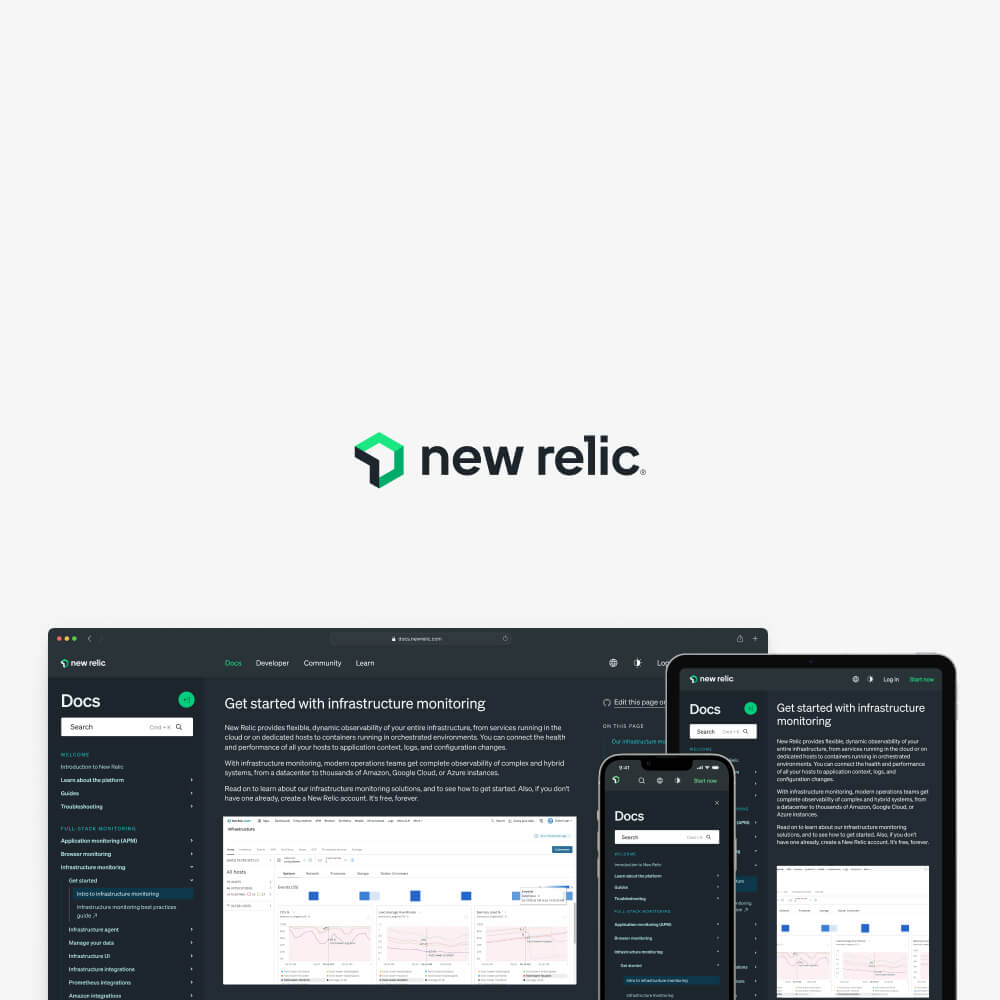
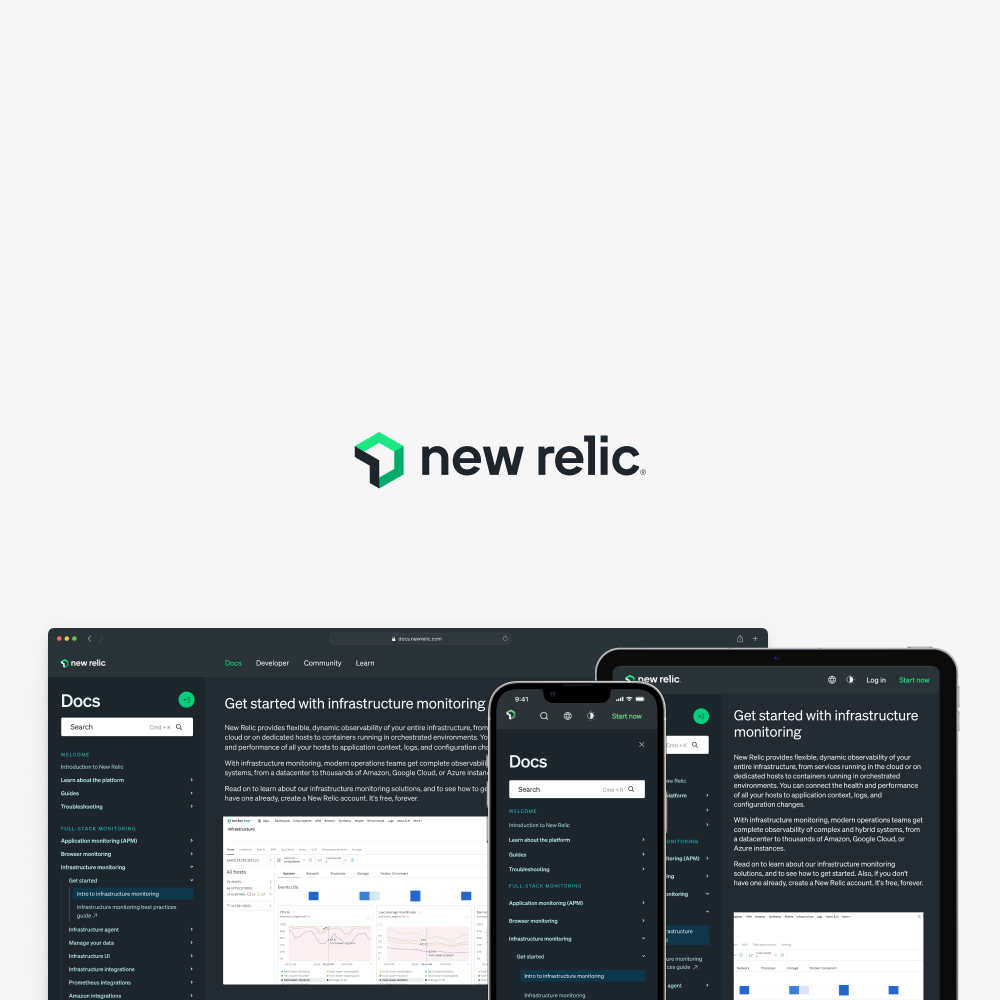
no-index everything, new work page, new thumbnails

Changed region(s): [[0.465, 0.62, 0.961, 1.0], [0.093, 0.992, 0.124, 1.0]]

diff --git a/work.html b/work.html
@@ -6,6 +6,7 @@
     ================================================== -->
     <meta charset="utf-8">
     <meta name="viewport" content="width=device-width, initial-scale=1">
+    <meta name="robots" content="noindex">
 
     <title>Andrew Chen. Senior Product Designer</title>
 
@@ -108,7 +109,161 @@
         </section> <!-- end s-intro -->
 
 
-        
+        <!-- # works
+        ================================================== -->
+        <section id="works" class="s-works">
+
+            <!--<div class="row">
+                <div class="column lg-12">
+                    <h2 class="text-pretitle">Work</h2>
+
+                    <p class="text-huge-title">
+                    Recent work.
+                    </p>
+                </div>
+            </div>-->
+
+            <div class="row folio-list block-lg-one-half block-stack-on-550" data-animate-block>
+
+                <!--<div class="column" data-animate-el>
+                    <div class="folio-item">
+                        <div class="folio-item__thumb">
+                            <a class="folio-item__thumb-link" href="anomaly.html" Title="Zest" data-size="1050x700">
+                                <img src="anomaly/anomaly-cover-1000.jpg">
+                            </a>
+                        </div>
+                        <div class="folio-item__info">
+                            <div class="folio-item__meta">
+                                <span class="cat">Anomaly &ndash; 2023</span>
+                                <!--<a href="https://www.behance.net/" title="Project Link" class="project-link">Project Link</a>
+                            </div>
+                            <h4 class="folio-item__title"><a href="anomaly.html">Building a better warranty claims experience with the power of LLMs</a></h4>
+                        </div>
+                        <div class="folio-item__caption">
+                            <p>1 minute reading</p>
+                        </div>
+                    </div>
+                </div> -->
+
+                <div class="column" data-animate-el>
+                    <div class="folio-item">
+                        <div class="folio-item__thumb">
+                            <a class="folio-item__thumb-link" href="zest.html" Title="Zest" data-size="1050x700">
+                                <img src="zest/zest-cover-new-800.jpg">
+                            </a>
+                        </div>
+                        <div class="folio-item__info">
+                            <div class="folio-item__meta">
+                                <span class="cat">Zest Dermatology &ndash; 2023</span>
+                                <!--<a href="https://www.behance.net/" title="Project Link" class="project-link">Project Link</a>-->
+                            </div>
+                            <h4 class="folio-item__title"><a href="zest.html">Designing the MVP for Roivant's virtual derm clinic</a></h4>
+                        </div>
+                        <div class="folio-item__caption">
+                            <p>1 minute reading</p>
+                        </div>
+                    </div>
+                </div> <!-- end column -->
+
+                <div class="column" data-animate-el>
+                    <div class="folio-item">
+                        <div class="folio-item__thumb">
+                            <a class="folio-item__thumb-link" href="newrelic.html" title="New Relic" data-size="1050x700">
+                                <img src="newrelic/newrelic-cover-new-1000.jpg">
+                            </a>
+                        </div>
+                        <div class="folio-item__info">
+                            <div class="folio-item__meta">
+                                <span class="cat">New Relic &ndash; 2022</span>
+                                <!--<a href="https://www.behance.net/" title="Project Link" class="project-link">Project Link</a>-->
+                            </div>
+                            <h4 class="folio-item__title"><a href="newrelic.html">Increasing feedback and fixing navigation flaws on New Relic docs</a></h4>
+                        </div>
+                        <div class="folio-item__caption">
+                            <p>1 minute reading</p>
+                        </div>
+                    </div>
+                </div> <!-- end column -->
+                <!--<div class="column" data-animate-el>
+                    <div class="folio-item">
+                        <div class="folio-item__thumb">
+                            <a class="folio-item__thumb-link" href="newrelic-billing.html" title="New Relic" data-size="1050x700">
+                                <img src="newrelic-billing/newrelic-billing-cover-1000.jpg">
+                            </a>
+                        </div>
+                        <div class="folio-item__info">
+                            <div class="folio-item__meta">
+                                <span class="cat">New Relic &ndash; 2021</span>
+                            </div>
+                            <h4 class="folio-item__title"><a href="newrelic-billing.html">Clarifying New Relic's billing and proration to reduce customer disputes</a></h4>
+                        </div>
+                        <div class="folio-item__caption">
+                            <p>1 minute reading</p>
+                        </div>
+                    </div>
+                </div> -->
+                <!--<div class="column" data-animate-el>
+                    <div class="folio-item">
+                        <div class="folio-item__thumb">
+                            <a class="folio-item__thumb-link" href="newrelic-scim.html" title="New Relic SCIM" data-size="1050x700">
+                                <img src="newrelic-scim/newrelic-scim-cover.jpg">
+                            </a>
+                        </div>
+                        <div class="folio-item__info">
+                            <div class="folio-item__meta">
+                                <span class="cat">New Relic &ndash; 2021</span>
+                            </div>
+                            <h4 class="folio-item__title"><a href="newrelic-scim.html">Adding SCIM for New Relic to alleviate user provisioning and management pains for enterprise customers</a></h4>
+                        </div>
+                        <div class="folio-item__caption">
+                            <p>1 minute reading</p>
+                        </div>
+                    </div>
+                </div> -->
+                <div class="column" data-animate-el>
+                    <div class="folio-item">
+                        <div class="folio-item__thumb">
+                            <a class="folio-item__thumb-link" href="curology-original.html" title="Curology" data-size="1050x700">
+                                <img src="curology/curology-cover-1000.jpg">
+                            </a>
+                        </div>
+                        <div class="folio-item__info">
+                            <div class="folio-item__meta">
+                                <span class="cat">Curology &ndash; 2020</span>
+                                <!--<a href="https://www.behance.net/" title="Project Link" class="project-link">Project Link</a>-->
+                            </div>
+                            <h4 class="folio-item__title"><a href="curology-original.html">Visualizing patient self-reports to help Curology's clinicians to accurately treat acne</a></h4>
+                        </div>
+                        <div class="folio-item__caption">
+                            <p>Password protected - 10 minutes reading</p>
+                        </div>
+                    </div>
+                </div> <!-- end column -->
+                <div class="column" data-animate-el>
+                    <div class="folio-item">
+                        <div class="folio-item__thumb">
+                            <a class="folio-item__thumb-link" href="alation.html" title="Alation" data-size="1050x700">
+                                <img src="alation/alation-cover-1000.jpg">
+                            </a>
+                        </div>
+                        <div class="folio-item__info">
+                            <div class="folio-item__meta">
+                                <span class="cat">Alation &ndash; 2019</span>
+                                <!--<a href="https://www.behance.net/" title="Project Link" class="project-link">Project Link</a>-->
+                            </div>
+                            <h4 class="folio-item__title"><a href="alation.html">Enhancing data search to expand Alation use among non-technical users</a></h4>
+                        </div>
+                        <div class="folio-item__caption">
+                            <p>10 minutes reading</p>
+                        </div>
+                    </div>
+                </div> <!-- end column -->
+    
+            </div> <!-- folio-list -->
+
+        </section> <!-- end s-works -->
+
+
         <!-- about
         ================================================== -->
         <section id="about" class="s-about">

diff --git a/about.html b/about.html
@@ -8,6 +8,7 @@
     ================================================== -->
     <meta charset="utf-8">
     <meta name="viewport" content="width=device-width, initial-scale=1">
+    <meta name="robots" content="noindex">
     <title>Andrew Chen. Senior Product Designer</title>
 
     <script>

diff --git a/newrelic-billing.html b/newrelic-billing.html
@@ -6,6 +6,7 @@
     ================================================== -->
     <meta charset="utf-8">
     <meta name="viewport" content="width=device-width, initial-scale=1">
+    <meta name="robots" content="noindex">
     <title>Andrew Chen. New Relic billing</title>
 
     <script>

diff --git a/zest.html b/zest.html
@@ -6,6 +6,7 @@
     ================================================== -->
     <meta charset="utf-8">
     <meta name="viewport" content="width=device-width, initial-scale=1">
+    <meta name="robots" content="noindex">
     <title>Andrew Chen. Zest Dermatology</title>
 
     <script>

diff --git a/newrelic-scim.html b/newrelic-scim.html
@@ -6,6 +6,7 @@
     ================================================== -->
     <meta charset="utf-8">
     <meta name="viewport" content="width=device-width, initial-scale=1">
+    <meta name="robots" content="noindex">
     <title>Andrew Chen. New Relic SCIM</title>
 
     <script>

diff --git a/newrelic.html b/newrelic.html
@@ -6,6 +6,7 @@
     ================================================== -->
     <meta charset="utf-8">
     <meta name="viewport" content="width=device-width, initial-scale=1">
+    <meta name="robots" content="noindex">
     <title>Andrew Chen. New Relic Docs</title>
 
     <script>

diff --git a/curology-original.html b/curology-original.html
@@ -6,6 +6,7 @@
     ================================================== -->
     <meta charset="utf-8">
     <meta name="viewport" content="width=device-width, initial-scale=1">
+    <meta name="robots" content="noindex">
     <title>Andrew Chen. Curology</title>
 
     <script>

diff --git a/curology.html b/curology.html
@@ -6,6 +6,7 @@
     ================================================== -->
     <meta charset="utf-8">
     <meta name="viewport" content="width=device-width, initial-scale=1">
+    <meta name="robots" content="noindex">
     <title>Andrew Chen. Curology</title>
 
     <script>

diff --git a/alation.html b/alation.html
@@ -6,6 +6,7 @@
     ================================================== -->
     <meta charset="utf-8">
     <meta name="viewport" content="width=device-width, initial-scale=1">
+    <meta name="robots" content="noindex">
     <title>Andrew Chen. Alation</title>
 
     <script>

diff --git a/styles.html b/styles.html
@@ -6,6 +6,7 @@
     ================================================== -->
     <meta charset="utf-8">
     <meta name="viewport" content="width=device-width, initial-scale=1">
+    <meta name="robots" content="noindex">
     <title>Augustine - Styles</title>
 
     <script>

diff --git a/single.html b/single.html
@@ -6,6 +6,7 @@
     ================================================== -->
     <meta charset="utf-8">
     <meta name="viewport" content="width=device-width, initial-scale=1">
+    <meta name="robots" content="noindex">
     <title>Sider. - Single</title>
 
     <script>

diff --git a/index_back.html b/index_back.html
@@ -6,6 +6,7 @@
     ================================================== -->
     <meta charset="utf-8">
     <meta name="viewport" content="width=device-width, initial-scale=1">
+    <meta name="robots" content="noindex">
     <title>Augustine</title>
 
     <script>
